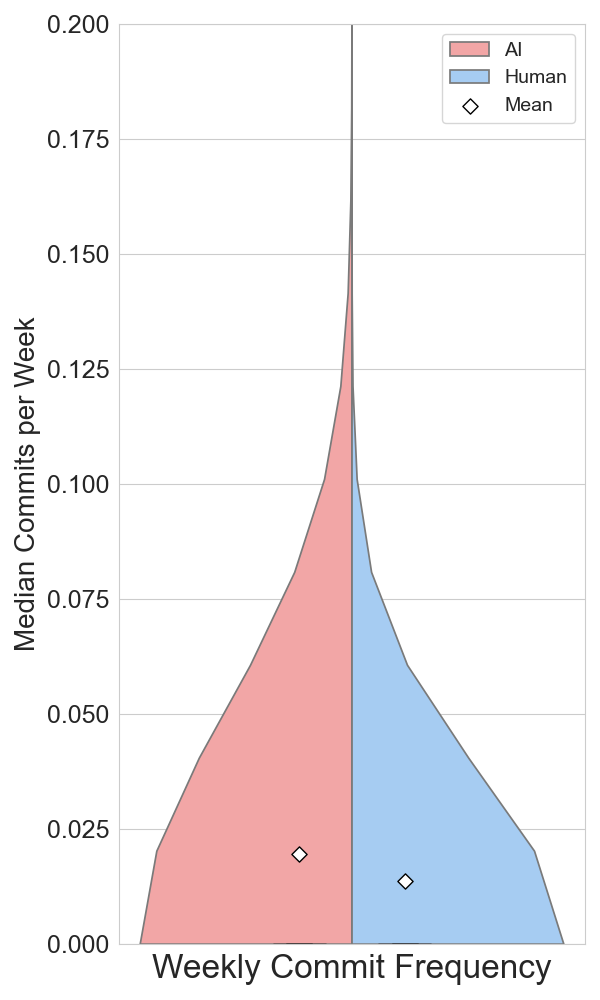
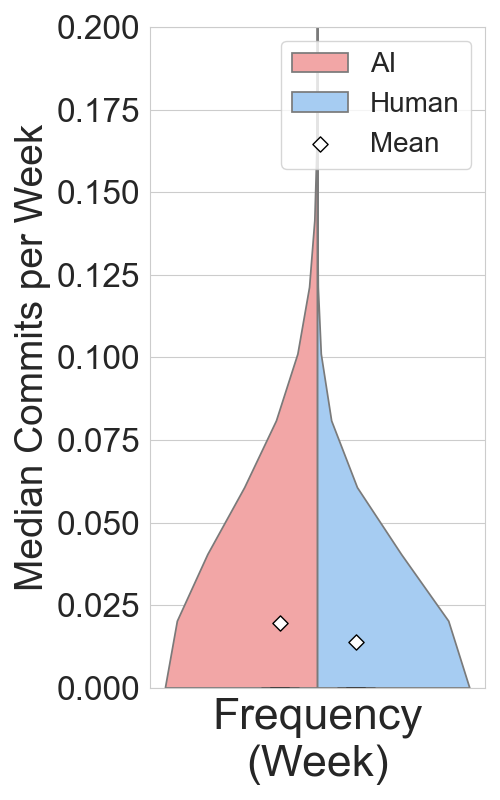
コミット分析期間をファイル作成から3カ月に調整

diff --git a/src/RQ1_analyze.py b/src/RQ1_analyze.py
@@ -23,7 +23,7 @@ def analyze_rq1():
     output_dir = os.path.join(script_dir, "../results")
     os.makedirs(output_dir, exist_ok=True)
     
-    output_txt_path = os.path.join(output_dir, "RQ1_results.txt")
+    output_txt_path = os.path.join(output_dir, "RQ1_results_3months.txt")
     
     print(f"読み込み中: {csv_path}")
     try:
@@ -39,30 +39,48 @@ def analyze_rq1():
     # 分析終了日
     analysis_end_date = pd.to_datetime("2025-10-31")
 
-    # ファイル単位のデータフレーム作成
-    # file_name, repository_name, file_created_by でユニークにする
-    files_df = df[['repository_name', 'file_name', 'file_created_by', 'file_creation_date']].drop_duplicates()
+    # ---------------------------------------------------------
+    # 1. 全期間の分析
+    # ---------------------------------------------------------
+    print("\n=== 全期間の分析を開始します ===")
+    run_analysis_process(df, output_dir, analysis_end_date, suffix="")
+
+    # ---------------------------------------------------------
+    # 2. 3ヶ月（90日）以内のデータに限定した分析
+    # ---------------------------------------------------------
+    print("\n=== 3ヶ月以内の分析を開始します ===")
+    print("分析対象をファイル作成から3ヶ月以内に限定します。")
+    df_3months = df.copy()
+    df_3months['days_diff'] = (df_3months['commit_date'] - df_3months['file_creation_date']).dt.days
+    # 作成日(0日)〜90日後まで
+    df_3months = df_3months[(df_3months['days_diff'] >= 0) & (df_3months['days_diff'] <= 90)].copy()
+    
+    run_analysis_process(df_3months, output_dir, analysis_end_date, suffix="_3months", is_limited_period=True)
+
+def run_analysis_process(df, output_dir, analysis_end_date, suffix="", is_limited_period=False):
+    """
+    分析プロセスを実行する関数
+    """
+    output_txt_path = os.path.join(output_dir, f"RQ1_results{suffix}.txt")
     
     # 結果格納用リスト
     results_text = []
-    results_text.append("RQ1 分析結果: AI生成ファイルの保守性分析")
+    title_suffix = " (作成から3ヶ月間限定)" if is_limited_period else ""
+    period_text = "作成日 ～ 作成日+90日" if is_limited_period else "～ 2025/10/31"
+    
+    results_text.append(f"RQ1 分析結果: AI生成ファイルの保守性分析{title_suffix}")
     results_text.append("=" * 60)
     results_text.append(f"分析日時: {datetime.now().strftime('%Y-%m-%d %H:%M:%S')}")
-    results_text.append(f"分析対象期間: ～ 2025/10/31")
+    results_text.append(f"分析対象期間: {period_text}")
     results_text.append("")
 
     # ---------------------------------------------------------
     # 1. コミット数の分析
     # ---------------------------------------------------------
-    print("コミット数の分析中...")
+    print(f"[{suffix}] コミット数の分析中...")
     
     # 各ファイルのコミット数を計算
     commit_counts = df.groupby(['repository_name', 'file_name', 'file_created_by']).size().reset_index(name='commit_count')
-    
-    # コミット数が0のファイルも考慮する必要があるが、results_v4.csvはコミット履歴ベースなので、
-    # 少なくとも1回（作成時）のコミットが含まれているはず。
-    # ただし、作成時のコミットが含まれていない場合（履歴取得の仕様による）は0になる可能性があるが、
-    # 今回のデータセットはコミット履歴から作られているので、ここに現れるファイルは少なくとも1コミットある。
     
     # AI作成ファイルと人間作成ファイルのコミット数を取得
     ai_commit_counts = commit_counts[commit_counts['file_created_by'] == 'AI']['commit_count']
@@ -101,16 +119,16 @@ def analyze_rq1():
     create_violin_plot(
         data_ai=ai_commit_counts,
         data_human=human_commit_counts,
-        title="Commit Counts",
+        title="Counts",
         ylabel="Number of Commits",
-        output_path=os.path.join(output_dir, "RQ1_violinPlot_count.png"),
+        output_path=os.path.join(output_dir, f"RQ1_violinPlot_count{suffix}.png"),
         ylim=20
     )
 
     # ---------------------------------------------------------
     # 2. コミット頻度の分析 (1週間ごと & 1か月ごと)
     # ---------------------------------------------------------
-    print("コミット頻度の分析中...")
+    print(f"[{suffix}] コミット頻度の分析中...")
     
     # 各ファイルごとの期間別コミット数の中央値を計算
     ai_weekly_medians = []
@@ -127,8 +145,16 @@ def analyze_rq1():
         commit_dates = group['commit_date'].sort_values()
         
         # 期間ごとの集計
-        weekly_median = calculate_period_median(commit_dates, creation_date, analysis_end_date, days=7)
-        monthly_median = calculate_period_median(commit_dates, creation_date, analysis_end_date, days=30)
+        if is_limited_period:
+            # 3ヶ月限定の場合: 終了日は作成日+90日、ただし分析全体の終了日を超えないようにする
+            target_end_date = creation_date + timedelta(days=90)
+            actual_end_date = min(target_end_date, analysis_end_date)
+        else:
+            # 全期間の場合
+            actual_end_date = analysis_end_date
+        
+        weekly_median = calculate_period_median(commit_dates, creation_date, actual_end_date, days=7)
+        monthly_median = calculate_period_median(commit_dates, creation_date, actual_end_date, days=30)
         
         if creator == 'AI':
             if weekly_median is not None: ai_weekly_medians.append(weekly_median)
@@ -173,9 +199,9 @@ def analyze_rq1():
     create_violin_plot(
         data_ai=pd.Series(ai_weekly_medians),
         data_human=pd.Series(human_weekly_medians),
-        title="Weekly Commit Frequency",
+        title="Frequency\n(Week)",
         ylabel="Median Commits per Week",
-        output_path=os.path.join(output_dir, "RQ1_violinPlot_frequency_weekly.png"),
+        output_path=os.path.join(output_dir, f"RQ1_violinPlot_frequency_weekly{suffix}.png"),
         ylim=0.2
     )
     
@@ -183,10 +209,56 @@ def analyze_rq1():
     create_violin_plot(
         data_ai=pd.Series(ai_monthly_medians),
         data_human=pd.Series(human_monthly_medians),
-        title="Monthly Commit Frequency",
+        title="Frequency\n(Month)",
         ylabel="Median Commits per Month",
-        output_path=os.path.join(output_dir, "RQ1_violinPlot_frequency_monthly.png"),
+        output_path=os.path.join(output_dir, f"RQ1_violinPlot_frequency_monthly{suffix}.png"),
         ylim=3
+    )
+
+    # ---------------------------------------------------------
+    # 3. まとめたバイオリンプロットの作成
+    # ---------------------------------------------------------
+    print(f"[{suffix}] 結合グラフの作成中...")
+    combined_data = [
+        {
+            'ai': ai_commit_counts,
+            'human': human_commit_counts,
+            'xlabel': "Count",
+            'ylabel': "Number of Commits",
+            'ylim': 20
+        },
+        {
+            'ai': pd.Series(ai_weekly_medians),
+            'human': pd.Series(human_weekly_medians),
+            'xlabel': "Frequency\n(Week)",
+            'ylabel': "Median Commits per Week",
+            'ylim': 0.2
+        },
+        {
+            'ai': pd.Series(ai_monthly_medians),
+            'human': pd.Series(human_monthly_medians),
+            'xlabel': "Frequency\n(Month)",
+            'ylabel': "Median Commits per Month",
+            'ylim': 3
+        }
+    ]
+    
+    create_combined_violin_plot(
+        dataset_list=combined_data,
+        output_path=os.path.join(output_dir, f"RQ1_violinPlot_combined{suffix}.png")
+    )
+
+    # ylabelなしバージョンの作成
+    print(f"[{suffix}] 結合グラフ（ylabelなし）の作成中...")
+    combined_data_no_ylabel = []
+    for item in combined_data:
+        new_item = item.copy()
+        new_item['ylabel'] = "" # ylabelを空にする
+        combined_data_no_ylabel.append(new_item)
+
+    create_combined_violin_plot(
+        dataset_list=combined_data_no_ylabel,
+        output_path=os.path.join(output_dir, f"RQ1_violinPlot_combined{suffix}_no_ylabel.png")
     )
 
     # 結果保存
@@ -220,13 +292,10 @@ def calculate_period_median(commit_dates, start_date, end_date, days):
         
     return np.median(counts)
 
-def create_violin_plot(data_ai, data_human, title, ylabel, output_path, ylim=None):
+def draw_violin_on_ax(ax, data_ai, data_human, xlabel, ylabel, ylim=None, show_legend=True):
     """
-    バイオリンプロットを作成して保存する
+    指定されたAxesオブジェクトにバイオリンプロットを描画する
     """
-    # 縦長に変更 (幅6, 高さ10)
-    plt.figure(figsize=(6, 10))
-    
     # データフレーム形式に変換（seaborn用）
     df_ai = pd.DataFrame({'Value': data_ai, 'Type': 'AI'})
     df_human = pd.DataFrame({'Value': data_human, 'Type': 'Human'})
@@ -234,18 +303,13 @@ def create_violin_plot(data_ai, data_human, title, ylabel, output_path, ylim=Non
     
     # データが空の場合はスキップ
     if len(df_plot) == 0:
-        print(f"警告: プロット用データがありません - {output_path}")
         return
 
-    # スタイル設定
-    sns.set_style("whitegrid")
-    
     # ダミーのx軸を設定（split=Trueで左右に結合させるため）
     df_plot['Dummy'] = "All Files"
     
     # 1. バイオリンプロット
-    # split=True で左右に結合, inner=None で中身を消す (boxplotを重ねるため)
-    ax = sns.violinplot(
+    sns.violinplot(
         data=df_plot, 
         x='Dummy', 
         y='Value', 
@@ -254,11 +318,14 @@ def create_violin_plot(data_ai, data_human, title, ylabel, output_path, ylim=Non
         inner=None,     # 中身を描かない
         palette={"AI": "#FF9999", "Human": "#99CCFF"},
         cut=0, # 範囲外の表示をしない
+        ax=ax
     )
     
+    # Seabornが自動的に追加した凡例を削除 (手動で制御するため)
+    if ax.get_legend() is not None:
+        ax.get_legend().remove()
+    
     # 2. 箱ひげ図を重ねる (ax.boxplotを使用)
-    # 位置調整: split=Trueの場合、x=0を中心に左右に分かれる
-    # AI (左側): positions=[-0.05], Human (右側): positions=[0.05] 程度に配置
     box_width = 0.1
     
     # AIの箱ひげ図
@@ -271,8 +338,8 @@ def create_violin_plot(data_ai, data_human, title, ylabel, output_path, ylim=Non
         whiskerprops=dict(color='black'),
         capprops=dict(color='black'),
         medianprops=dict(color='black'),
-        showfliers=False, # 外れ値はバイオリンで表現されているので省略
-        manage_ticks=False # x軸の目盛りを自動追加しない
+        showfliers=False,
+        manage_ticks=False
     )
     
     # Humanの箱ひげ図
@@ -286,40 +353,81 @@ def create_violin_plot(data_ai, data_human, title, ylabel, output_path, ylim=Non
         capprops=dict(color='black'),
         medianprops=dict(color='black'),
         showfliers=False,
-        manage_ticks=False # x軸の目盛りを自動追加しない
+        manage_ticks=False
     )
     
     # 平均値を計算してプロットに追加 (白抜きの菱形)
     means = df_plot.groupby('Type')['Value'].mean()
     
-    # split=Trueの場合、左側(AI)と右側(Human)に平均値を配置
-    # 箱ひげ図の位置に合わせる
     if 'AI' in means:
-        plt.scatter(x=[-0.1], y=[means['AI']], color='white', marker='D', s=60, zorder=10, edgecolor='black', label='Mean')
+        ax.scatter(x=[-0.1], y=[means['AI']], color='white', marker='D', s=60, zorder=10, edgecolor='black', label='Mean')
     if 'Human' in means:
-        plt.scatter(x=[0.1], y=[means['Human']], color='white', marker='D', s=60, zorder=10, edgecolor='black')
+        ax.scatter(x=[0.1], y=[means['Human']], color='white', marker='D', s=60, zorder=10, edgecolor='black')
     
     if ylim is not None:
-        plt.ylim(0, ylim)
+        ax.set_ylim(0, ylim)
     
-    # plt.title(title, fontsize=24) # タイトルを上部から削除
-    plt.ylabel(ylabel, fontsize=20)
-    plt.xlabel("", fontsize=20) 
+    # 文字サイズを大きく設定
+    ax.set_ylabel(ylabel, fontsize=28) # 24 -> 28
+    ax.set_xlabel("", fontsize=28) 
     
     # x軸の目盛りとしてタイトルを表示
-    plt.xticks([0], [title], fontsize=24) 
+    ax.set_xticks([0])
+    ax.set_xticklabels([xlabel], fontsize=32) # 28 -> 32
     
     # 目盛りの文字サイズ変更
-    plt.tick_params(axis='y', which='major', labelsize=18) # x軸は消したのでy軸のみ設定
+    ax.tick_params(axis='y', which='major', labelsize=24) # 22 -> 24
     
     # 凡例
-    # violinplotの凡例とMeanの凡例を統合
-    handles, labels = ax.get_legend_handles_labels()
-    # handlesには [Violin_AI, Violin_Human, Mean_Scatter] が含まれるはず
-    plt.legend(handles, labels, loc='upper right', fontsize=14)
+    if show_legend:
+        handles, labels = ax.get_legend_handles_labels()
+        ax.legend(handles, labels, loc='upper right', fontsize=20) # 18 -> 20
+
+def create_violin_plot(data_ai, data_human, title, ylabel, output_path, ylim=None):
+    """
+    バイオリンプロットを作成して保存する (単体用ラッパー)
+    """
+    # 縦長に変更 (幅5, 高さ8) -> (幅5, 高さ8)
+    plt.figure(figsize=(5, 8))
+    ax = plt.gca()
+    
+    # スタイル設定
+    sns.set_style("whitegrid")
+    
+    draw_violin_on_ax(ax, data_ai, data_human, title, ylabel, ylim, show_legend=True)
     
     plt.tight_layout()
     plt.savefig(output_path)
+    plt.close()
+
+def create_combined_violin_plot(dataset_list, output_path):
+    """
+    3つのバイオリンプロットを横に並べて保存する
+    """
+    # 横長 (幅15, 高さ8) -> (幅14, 高さ8)
+    fig, axes = plt.subplots(1, 3, figsize=(14, 8))
+    
+    # スタイル設定
+    sns.set_style("whitegrid")
+    
+    for i, data in enumerate(dataset_list):
+        draw_violin_on_ax(
+            ax=axes[i],
+            data_ai=data['ai'],
+            data_human=data['human'],
+            xlabel=data['xlabel'],
+            ylabel=data['ylabel'],
+            ylim=data['ylim'],
+            show_legend=False
+        )
+    
+    # 共通の凡例を作成 (最初のプロットからハンドルとラベルを取得)
+    handles, labels = axes[0].get_legend_handles_labels()
+    # 図全体の上部に凡例を表示
+    fig.legend(handles, labels, loc='upper center', bbox_to_anchor=(0.5, 1.08), ncol=3, fontsize=24) # 20 -> 24
+    
+    plt.tight_layout()
+    plt.savefig(output_path, bbox_inches='tight')
     plt.close()
 
 if __name__ == "__main__":
